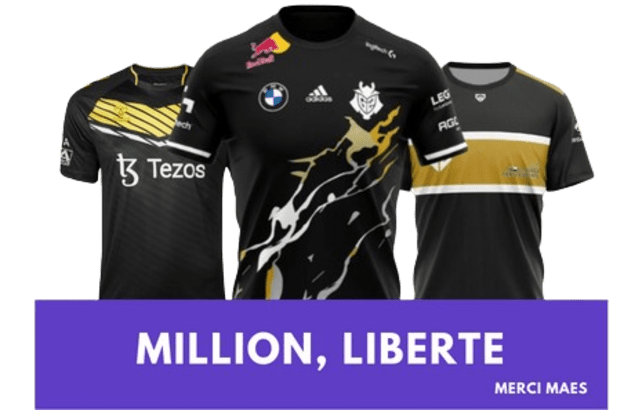
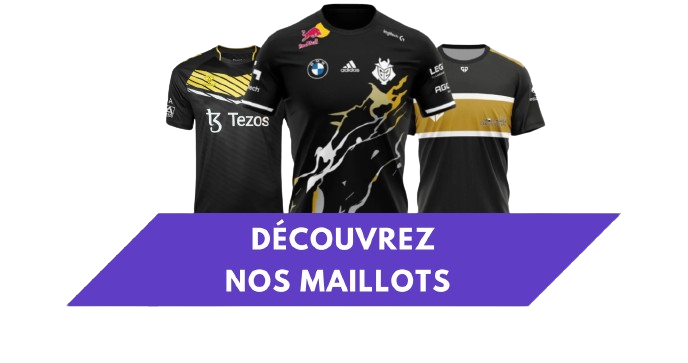
Image accueil

diff --git a/frontend/public/css/index.css b/frontend/public/css/index.css
@@ -75,12 +75,20 @@ box-icon {
     transform: scale(1.4);
 }
 
-.hero {
+.content-div {
+    overflow: hidden;
     height: 90vh;
     background: linear-gradient(to top right, #5f3dc4 0%, #090E16 50%);
+}
+
+.hero img {
+    transform: scale(1.2);
+    margin-top: 7vh;
+}
+.hero {
+    height: 40vh;
     display: flex;
     justify-content: center;
-    align-items: center;
 }
 
 .burger-menu {
@@ -125,18 +133,19 @@ box-icon {
 
 @media only screen and (max-width: 430px) {
 
-
+    .hero img {
+        transform: scale(1);
+        margin-top: 5vh;
+    }
 
     .mid__header__content,
     .right__header__content {
         display: none;
-        /* Masquer le contenu de l'en-tête au centre et à gauche */
     }
 
 
     .left__header__content {
         width: 50%;
-        /* Ajuster la largeur si nécessaire */
     }
 
     .burger-menu {

diff --git a/frontend/views/index.html b/frontend/views/index.html
@@ -38,8 +38,10 @@
             </div>
         </header>
 
-        <div class="hero">
-            <img src="../public/img/test2.png" alt="Hero image">
+        <div class="content-div">
+            <div class="hero">
+                <img src="../public/img/test2.png" alt="Hero image">
+            </div>
         </div>
     </main>
 
